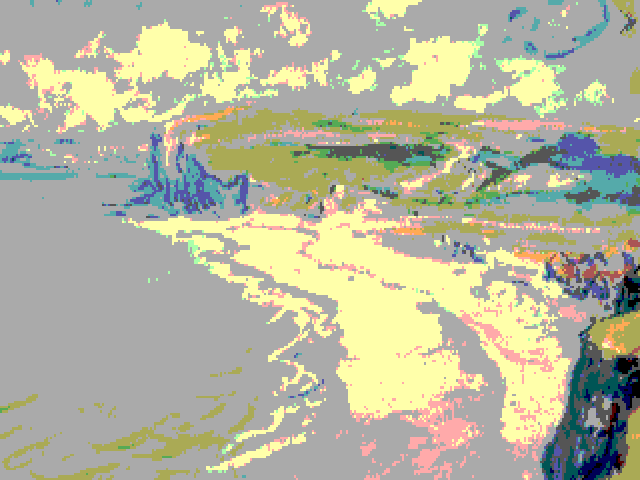
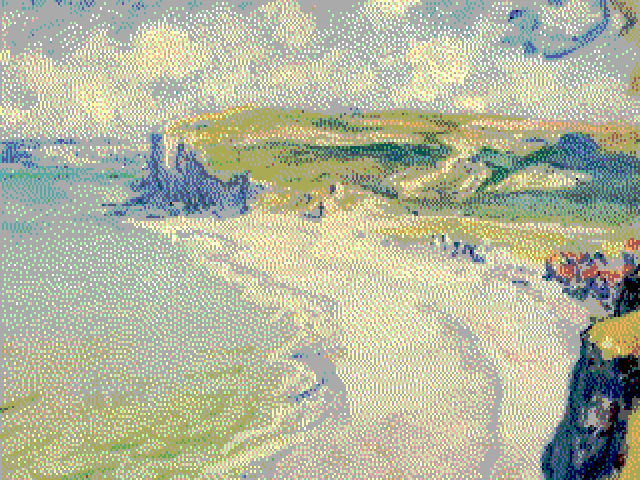
Make dithering more aggressive on FixedPalette
- EGA example looks better now

diff --git a/src/color.rs b/src/color.rs
@@ -296,7 +296,7 @@ where
             .pixels()
             .map(|&p| {
                 let Rgb { data: [r, g, b] } = p;
-                self.convert_color(Color { r, g, b, a: 255 })
+                Color { r, g, b, a: 255 }
             })
             .collect_vec();
         
